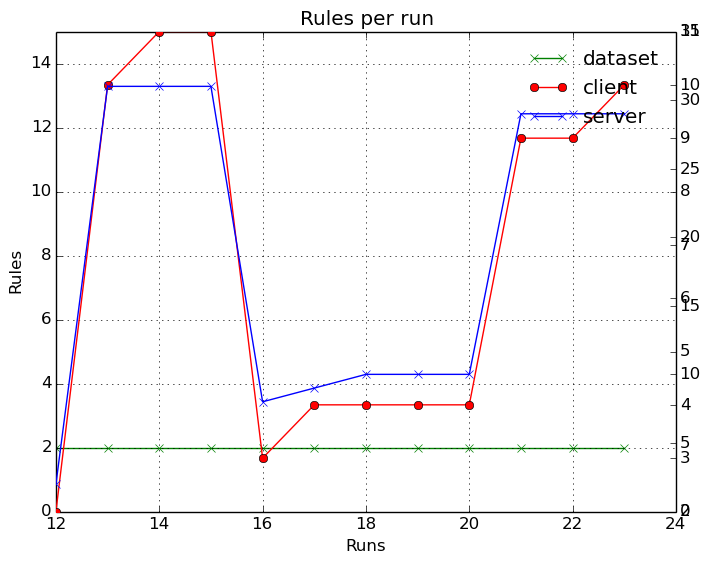
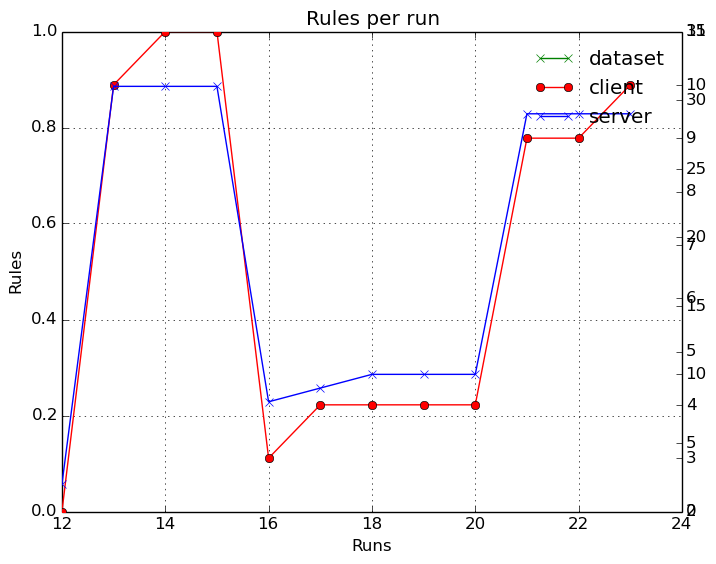
Plotting...

diff --git a/Parser/metrics/plot.py b/Parser/metrics/plot.py
@@ -64,10 +64,18 @@ for line in data:
     line = line.strip('\n')
     server.append(line)
 """
+
+max_rules = []
+for i in range(services):
+    max_rules.append(rules[i][int(num_of_runs)-1])
+max_value = max(max_rules)
+
+"""
 x_Axis=[]
 for x in range(int(num_of_runs)):
     x_Axis.append(x)
-    
+"""   
+
 #Non generic part
 fig, ax1 = plt.subplots()
 #axAx = np.arange(len(x_Axis))
@@ -75,7 +83,7 @@ fig, ax1 = plt.subplots()
 ax1.grid(True)
 ax1.set_xlabel("Runs")
 ax1.set_ylabel("Rules")
-ax1.axis([0, rules[0][int(num_of_runs)-1], 0, 15])
+ax1.axis([0, int(num_of_runs), 0, max_value])
 #ax1.set_xlim(-0.5, len(x_Axis) - 0.5)
 #ax1.set_ylim(min(rules[0]) - 0.005, max(rules[3]) + 0.005)
 line1 = ax1.plot(rules[0], label="dataset", color="green", marker='x')
